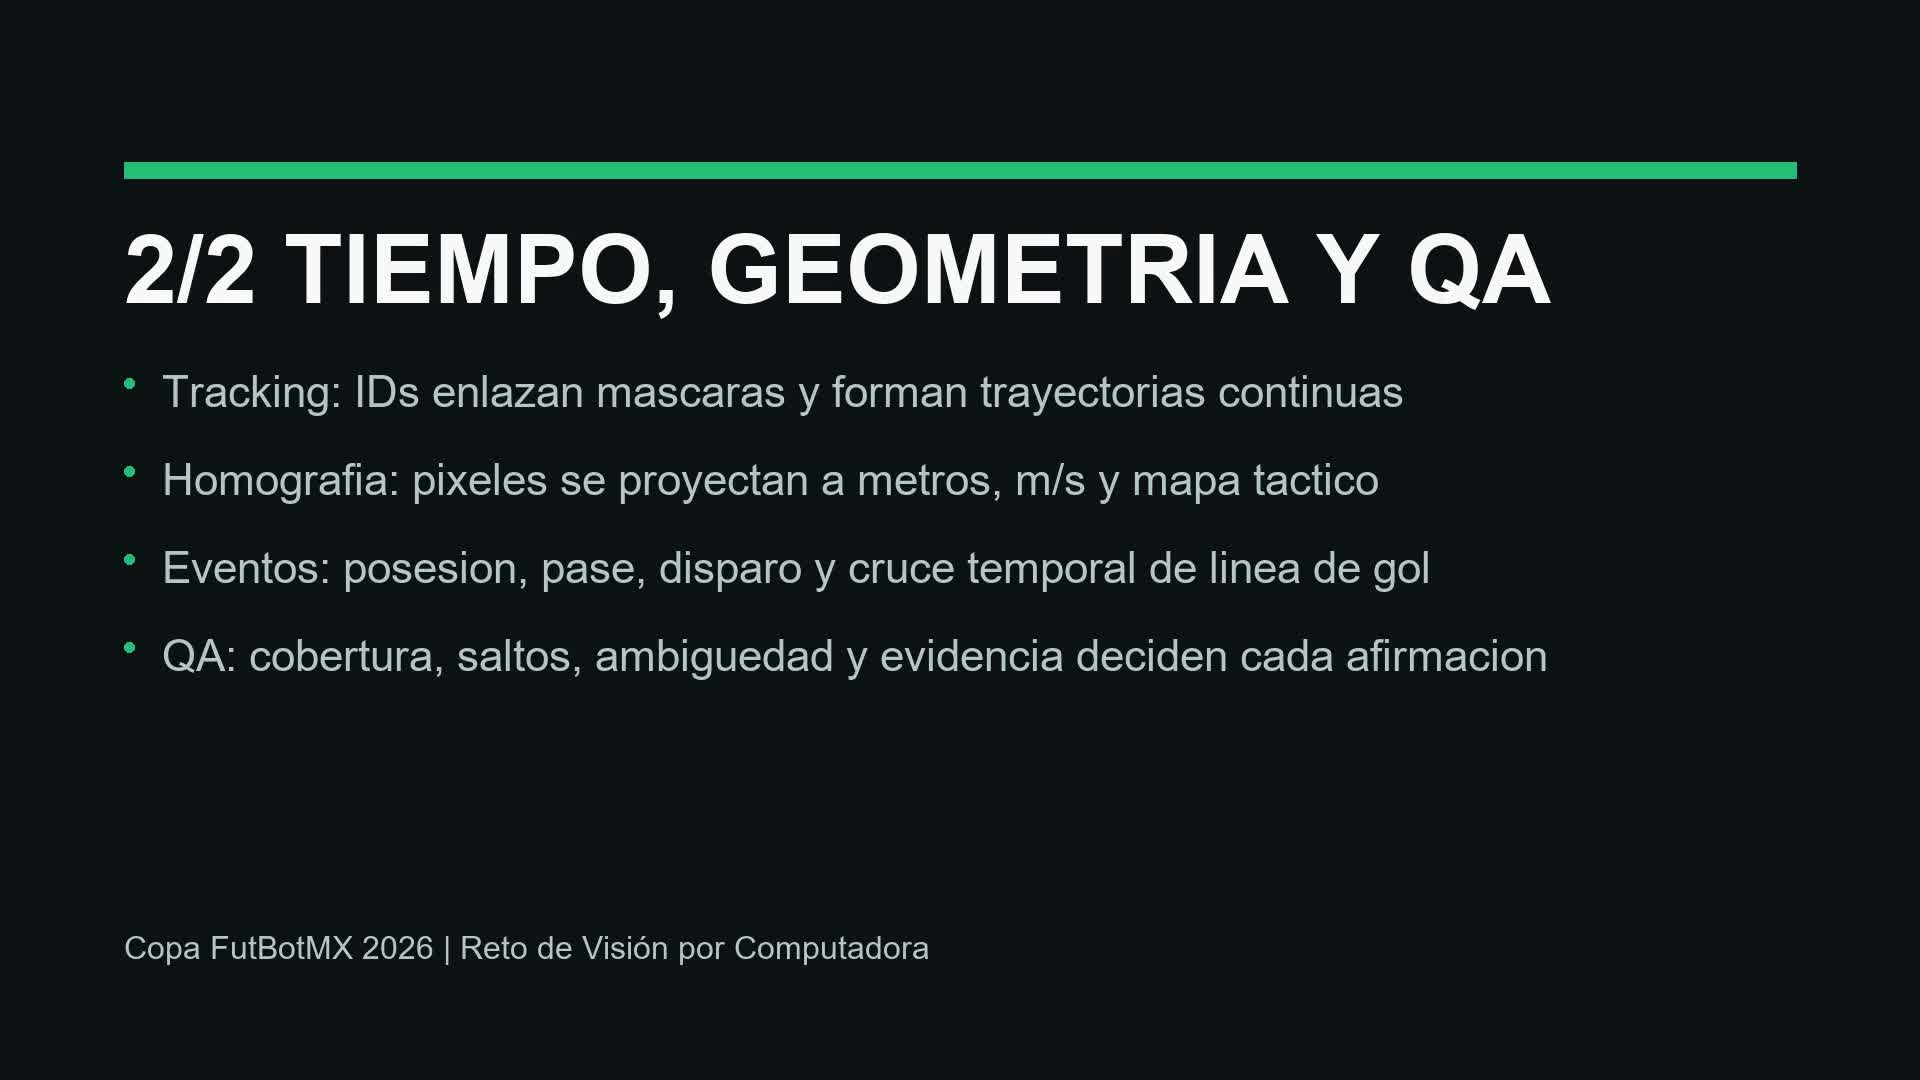
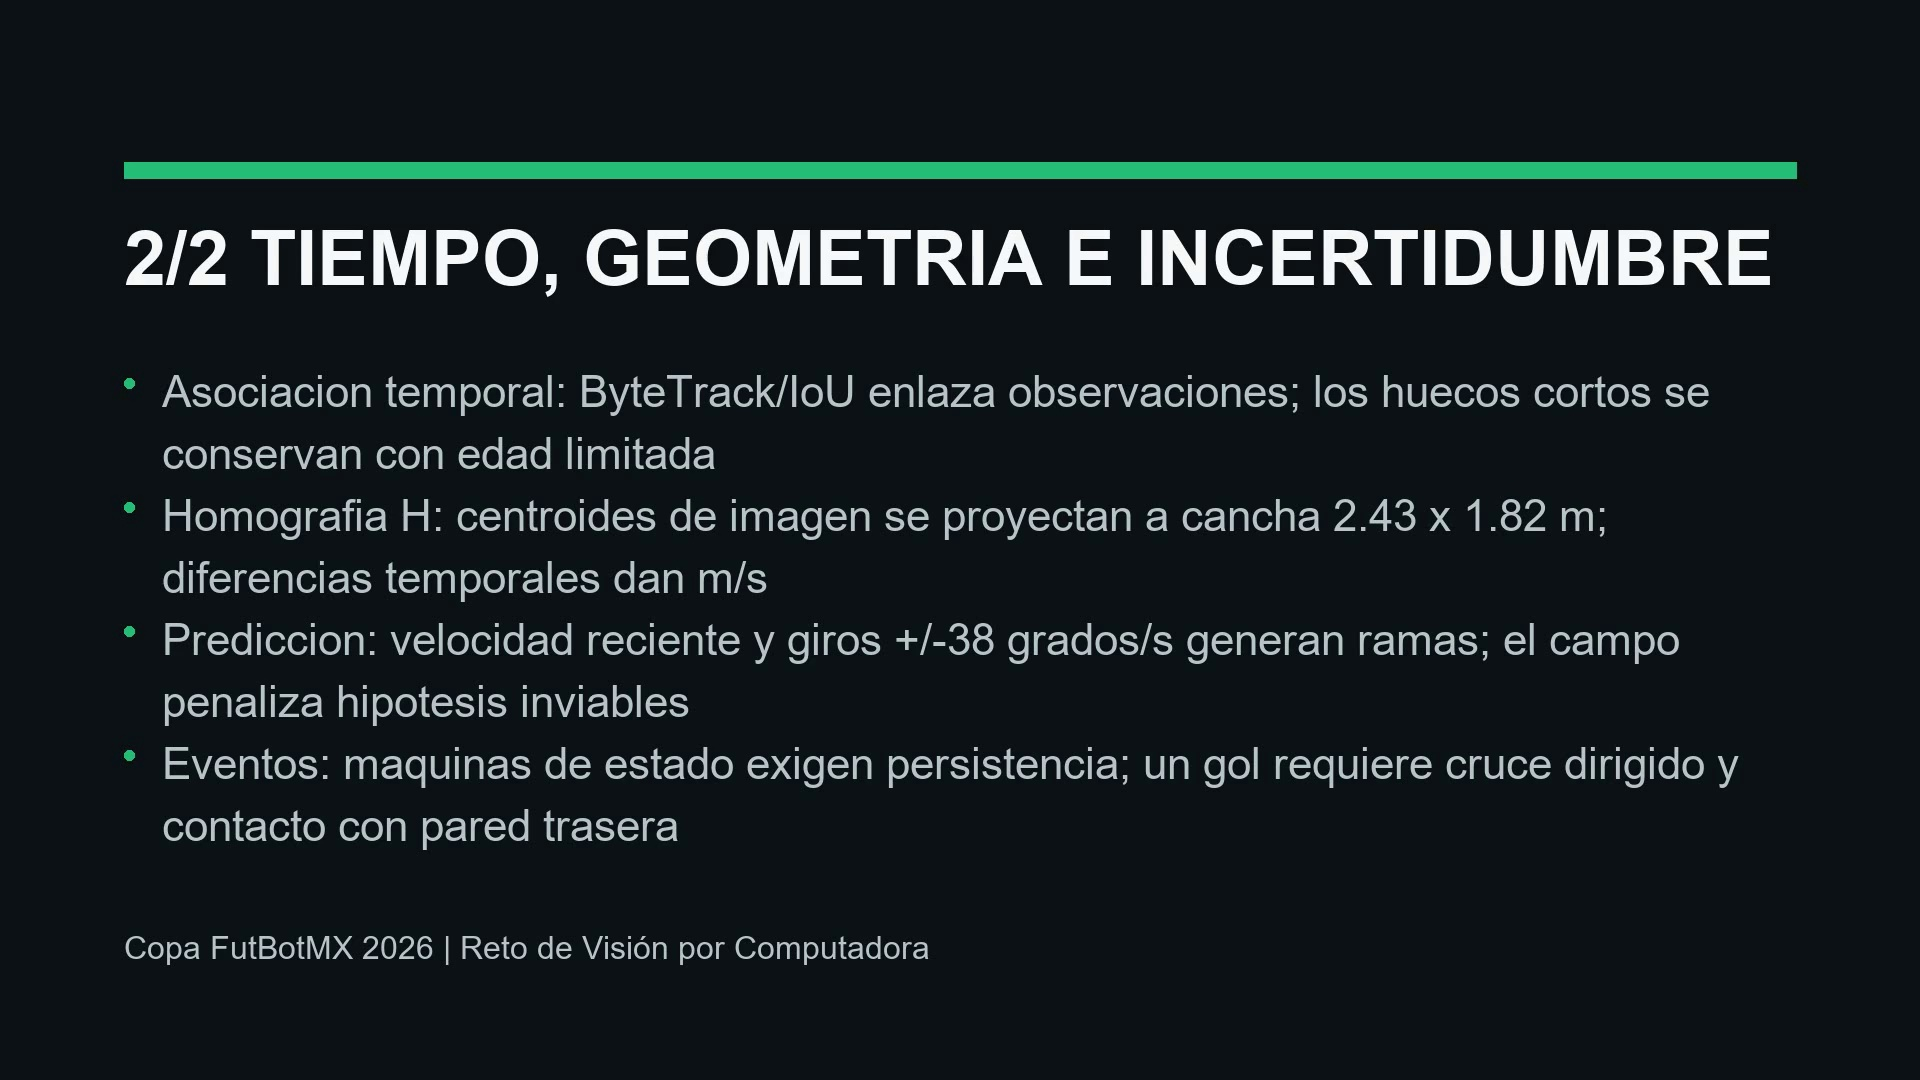
Publish v1.2.2 goal and motion evidence

diff --git a/README.md b/README.md
@@ -11,7 +11,7 @@ detecciones en metricas, eventos, mapas tacticos y videos demo.
 - **Institución:** Universidad Nacional Autónoma de México (UNAM).
 - **Integrantes:** Germán Alday Salazar, Raúl García Lemus y Darien Piña Sánchez.
 - **Demo final (116 s, 1920x1080, H.264):**
-  [GitHub Release v1.2.1](https://github.com/Dps8/SAMBA_FutBot/releases/tag/v1.2.1).
+  [GitHub Release v1.2.2](https://github.com/Dps8/SAMBA_FutBot/releases/tag/v1.2.2).
 - **Reel listo para Instagram (89 s, 1080x1920, H.264):**
   se incluye en el mismo release.
 - **Enlace publico de Instagram (provisional):**
@@ -28,11 +28,17 @@ fine-tuning.
 
 ![Enfoques de tiempo, geometria y QA](docs/assets/submission-approach.jpg)
 
+![Percepcion y fusion de evidencia](docs/assets/submission-perception-fusion.jpg)
+
 ![Original y resultado SAMBA FutBot](docs/assets/submission-analysis.jpg)
 
 ![Secuencia real de gol y cambio de marcador](docs/assets/submission-goal.jpg)
 
 ![Prediccion de movimiento y distancia metrica](docs/assets/submission-prediction.jpg)
+
+![Prediccion multimodal de robots](docs/assets/submission-robot-prediction.jpg)
+
+![Deteccion observada de ambas porterias](docs/assets/submission-goal-detection.jpg)
 
 ![Mapa de calor dinamico](docs/assets/submission-heatmap.jpg)
 
@@ -43,7 +49,7 @@ fine-tuning.
 La evidencia numerica de la corrida completa esta en
 [`full-match-IMG_9933-summary.json`](docs/evidence/full-match-IMG_9933-summary.json),
 acompanada por el reporte exacto del heatmap y las metricas operativas. El
-[`manifiesto v1.2.1`](docs/evidence/submission-video-manifest-v1.2.1.json)
+[`manifiesto v1.2.2`](docs/evidence/submission-video-manifest-v1.2.2.json)
 registra codec, resolucion, duracion, entradas y alcance de cada afirmacion.
 
 La ruta actual no depende solo de un prompt a SAM 3. Para la camara superior se
@@ -63,6 +69,42 @@ usa una estrategia hibrida:
 10. Se asignan IDs de tracking y equipo por color dominante del robot.
 11. Se calculan metricas, posesion por equipo, eventos, homografia, reportes y QA.
 
+### Criterio de fusion y trazabilidad
+
+Cada fuente propone evidencia, no una verdad aislada. SAM 3 aporta mascara,
+caja, score del modelo, prompt y cuadro de origen. El detector HSV aporta
+componentes conexos con rango cromatico, area y extension; se usa para aumentar
+recall cuando el objeto conserva un color reconocible. La fusion compara clase,
+IoU, contencion, area, cercania y pertenencia al campo. Despues aplica
+restricciones del dominio: una pelota por cuadro, una porteria por color y
+separacion espacial minima entre robots.
+
+Una semilla marcada `source: goal_geometry` no puede recalibrar el color ni
+cerrar la ventana de busqueda HSV: primero debe aparecer evidencia observada de
+SAM 3 o color. Esto evita que una estimacion geometrica incorrecta bloquee una
+porteria real. Si se habilita la inferencia de la porteria opuesta, el eje se
+elige por la relacion de aspecto del campo (`horizontal` o `vertical`) y el
+resultado conserva `evidence: geometry_only`; no se dibuja ni confirma un gol
+por si solo. Los scores de SAM 3 y de los filtros no son probabilidades
+calibradas y se reportan con su procedencia.
+
+### Prediccion de pelota y robots
+
+La prediccion opera despues de tracking y homografia. Para cada robot se ajustan
+dos rectas por minimos cuadrados sobre su historia reciente en metros,
+`x(t)=x0+vx*t` y `y(t)=y0+vy*t`. El residuo RMSE del ajuste mide consistencia
+local. Desde el estado estimado se integran tres ramas durante 1.5 s:
+velocidad constante, giro izquierdo a `+38 grados/s` y giro derecho a
+`-38 grados/s`. Las ramas que salen del rectangulo `2.43 x 1.82 m` reciben una
+penalizacion y los pesos restantes se normalizan para sumar uno.
+
+Esos porcentajes son **probabilidades heuristicas relativas**, no frecuencias
+calibradas por un clasificador entrenado. El JSON conserva historial, velocidad
+en m/s, RMSE, horizonte, puntos metricos, estado dentro/fuera del campo y nota
+de alcance. Para la presentacion se selecciona un instante observado con alto
+movimiento y se eliminan forecasts espacialmente coincidentes, de modo que dos
+IDs sobre el mismo robot no se presenten como dos agentes diferentes.
+
 ## Estado Actual
 
 - Categoria de trabajo: profesional.
@@ -71,7 +113,7 @@ usa una estrategia hibrida:
 - Campo oficial usado para homografia: `2.43 m x 1.82 m`.
 - Pelota oficial considerada: pelota naranja tipo golf, `42 mm`; el color se
   maneja como perfil configurable, no como unica fuente de deteccion.
-- Suite local: 291 pruebas y 6 subpruebas aprobadas.
+- Suite local: 297 pruebas y 6 subpruebas aprobadas.
 - Clip superior limpio: maximo dos robots y una pelota por cuadro; 205
   candidatos de pelota revisados, 203 aceptados y dos falsos puntos sobre
   robots eliminados por contexto.
@@ -89,7 +131,7 @@ usa una estrategia hibrida:
   rastreada, cruce dirigido en el cuadro 356, persistencia temporal y contacto
   con la pared trasera exigido por las reglas; la evidencia registra seis
   cuadros fuera y seis dentro.
-- Resultados finales locales: `outputs/review/2026-06-19/submission_v1_2_1`.
+- Resultados finales locales: `outputs/review/2026-06-19/submission_v1_2_2`.
 - Evidencia pequena y versionable: `docs/evidence` y `docs/assets`.
 
 ## Estructura Del Repositorio
@@ -217,7 +259,9 @@ Puntos clave:
   exacto.
 - `goal_detection.spatial_gate_from_seeds`: si hay cajas semilla de SAM3,
   limita la busqueda cromatica a regiones cercanas a esas coordenadas para
-  evitar objetos externos del mismo color.
+  evitar objetos externos del mismo color. Las semillas puramente geometricas
+  se excluyen de esta compuerta para no ocultar una porteria observada en otra
+  zona del campo.
 - `goal_detection.require_seed_for_color`: si esta activo, una clase de
   porteria necesita al menos una caja semilla de SAM3 antes de aceptar
   detecciones cromaticas de esa clase. El default actual es `false` para que la
@@ -229,7 +273,9 @@ Puntos clave:
   detecta una porteria de color, crea la porteria opuesta por simetria respecto
   al eje central del campo y la marca con `source: goal_geometry`. Esta apagado
   por defecto porque puede crear una porteria falsa junto a la porteria real si
-  la geometria de campo no esta limpia.
+  la geometria de campo no esta limpia. `goal_detection.opposite_goal_axis`
+  acepta `auto`, `horizontal` o `vertical`; `auto` usa la orientacion de la caja
+  del campo.
 - `robot_filter.enabled`: activa el filtro conservador para camara superior.
   Reduce cajas repetidas de robots usando varios criterios combinados: area
   minima, area maxima relativa al frame, IoU, contencion, distancia minima entre
@@ -624,7 +670,9 @@ Que hace internamente:
 5. Si SAM3 encontro porterias, calibra el HSV real desde esas cajas.
 6. Agrega porterias por color azul/amarillo si el fallback cromatico esta
    activo.
-7. Si solo aparece una porteria, infiere la opuesta por geometria del campo.
+7. Si se habilita explicitamente y solo aparece una porteria, propone la
+   opuesta por el eje geometrico correspondiente; queda marcada como evidencia
+   solo geometrica y no se usa como deteccion observada.
 8. Fusiona campo, robots, porterias y candidatos de pelota.
 9. Refina la pelota con `refine-ball`.
 10. Genera tracks y asigna equipo de robots por color.
@@ -663,7 +711,8 @@ Parametros utiles:
   cambios de posesion o colisiones.
 - `--render-analysis / --no-render-analysis`: genera el video tecnico con
   cajas, scores, distancia de cada robot al balon, velocidad del balon,
-  trayectoria y una probabilidad heuristica de presion de tiro hacia porteria.
+  trayectoria, probabilidad heuristica de presion de tiro y ramas metricas de
+  movimiento para pelota y robots.
 - `--analysis-freeze`: solo para el video `analysis`; congela frames relevantes
   para explicar eventos importantes como tiros, goles candidatos, pases,
   intercepciones o colisiones.

diff --git a/docs/SUBMISSION_COMPLIANCE.md b/docs/SUBMISSION_COMPLIANCE.md
@@ -17,9 +17,9 @@ fuente normativa es `Convocatoria_CopaFutBotMX-Meta-VF-20260429T020141.pdf`.
 | Regla | Estado | Evidencia |
 |---|---|---|
 | 3.5.1 Campo, aliados, rivales y pelota | Cumplido con QA | SAM 3 segmenta campo/robots/pelota; la clasificacion de equipo usa apariencia y puede quedar `unknown` si no supera confianza. Las porterias azul/amarilla tienen prompt y fallback cromatico/geometrico. |
-| 3.5.1 Trayectorias y eventos | Cumplido | Tracks persistentes, trayectoria de pelota, distancia robot-balon, pases, tiros, intercepciones, colisiones, goles y estados de juego. En `video-427`, la caja de pelota cruza la linea calibrada, persiste tres cuadros y contacta la pared trasera conforme a 4.4.5/7.4.4; entonces emite `goal_confirmed` y actualiza el marcador. |
+| 3.5.1 Trayectorias y eventos | Cumplido | Tracks persistentes, trayectoria de pelota, distancia robot-balon y prediccion multimodal de robots en metros con tres ramas y pesos heuristicos explicitos; pases, tiros, intercepciones, colisiones, goles y estados de juego. En `video-427`, la caja de pelota cruza la linea calibrada, persiste tres cuadros y contacta la pared trasera conforme a 4.4.5/7.4.4; entonces emite `goal_confirmed` y actualiza el marcador. |
 | 3.5.2 Visualizacion avanzada | Cumplido | Mapa de calor dinamico y acumulado sobre `IMG_9933.MOV` completo (12:56, 23,278 cuadros), mapa tactico, posesion candidata, flujo, narrativa y vista analitica. |
-| 3.5.3 Demo de hasta 2 min | Cumplido | `SAMBA_FutBot-demo-final.mp4`: 116 s, 1920x1080, original+resultado, narrativa, analisis, prediccion, explicacion visual del detector de gol, multivista, heatmap completo, metricas y H.264. Se publica en GitHub Release v1.2.1. |
+| 3.5.3 Demo de hasta 2 min | Cumplido | `SAMBA_FutBot-demo-final.mp4`: 116 s, 1920x1080, original+resultado, narrativa, analisis, prediccion de pelota y robots, explicacion visual del detector de gol, multivista, heatmap completo, metricas y H.264. Se publica en GitHub Release v1.2.2. |
 | 3.5.3 Reel de al menos 30 s | Archivo listo | `SAMBA_FutBot-reel-instagram.mp4`: 89 s, 1080x1920 y H.264. Falta publicar en Instagram y reemplazar el enlace provisional del README. |
 | 3.5.4 README completo | Cumplido salvo enlace externo | Arquitectura, instalacion, reproduccion, entorno, resultados, capturas, licencia y creditos estan incluidos. |
 
@@ -35,7 +35,7 @@ proyecto.
 
 | Criterio | Evidencia principal |
 |---|---|
-| Innovacion | Prompts y contexto rotativos, fusion SAM 3 + color adaptable, fine-tuning medido, ByteTrack, recuperacion geometrica, prediccion de tiro y QA por claim. |
+| Innovacion | Prompts y contexto rotativos, fusion SAM 3 + color adaptable, fine-tuning medido, ByteTrack, recuperacion geometrica auditable, prediccion multimodal de pelota/robots y QA por claim. |
 | Pipeline funcional | `process-video` y `process-top-camera` producen detecciones, tracks, estados, eventos, metricas, QA, mapas y doble video. |
 | Rendimiento | Ventanas de 120 cuadros, limite de 16 objetos, rotacion de prompts, ejecucion por lotes y post-procesamiento sin GPU. |
 | Visualizacion | Mascaras semitransparentes, cajas por objeto, confianza, IDs, distancias, trayectorias, narrativa, analisis y mapas de calor. |

diff --git a/docs/RESULTS.md b/docs/RESULTS.md
@@ -3,7 +3,7 @@
 Generated artifacts for the current SAM3 windowed pipeline are stored under
 `outputs/`.
 
-## Final submission v1.2.1 (19 June 2026)
+## Final submission v1.2.2 (19 June 2026)
 
 The final delivery integrates two H.264 formats: a 116-second horizontal demo
 and an 89-second vertical reel. Both show the narrative and analysis modules,
@@ -24,7 +24,7 @@ ball regression remains in the evidence JSON so the presentation does not hide
 the known limitation.
 
 Final local artifacts are under
-`outputs/review/2026-06-19/submission_v1_2_1/`. Small versioned evidence is under
+`outputs/review/2026-06-19/submission_v1_2_2/`. Small versioned evidence is under
 `docs/evidence/`, with verified stills under `docs/assets/`.
 
 The goal sequence in `video-427` is machine-verifiable rather than only a
@@ -35,6 +35,26 @@ implements rules 4.4.5 and 7.4.4. The emitted `goal_confirmed` event has
 confidence 0.92 and updates the confirmed yellow scoreboard to 1-0. The demo
 overlays the ball box, track, trajectory, goal region, goal line, back wall and
 temporal persistence counter.
+
+## Goal recovery and robot forecasts (18 June 2026)
+
+The `IMG_9938` audit exposed a portrait-camera geometry error: the missing blue
+goal had been mirrored horizontally beside the yellow goal. The corrected
+constraint selects the symmetry axis from the detected field orientation and
+does not let `geometry_only` seeds restrict color search. Broad blue HSV plus
+field membership observes the physical blue goal in all 300 frames of the
+reviewed clip; the yellow goal remains the higher-confidence SAM 3 result. The
+new tracks contain zero geometry-only goals, one goal per color per frame and
+render no goal trails.
+
+Robot forecasting now uses metric robot paths instead of reusing only the ball
+trajectory. A least-squares velocity estimate over recent observations creates
+constant-heading, left-turn and right-turn branches over a 1.5-second horizon.
+Branch weights combine fit consistency with the fraction of the path that
+stays on the 2.43 x 1.82 m field and are normalized to one. They are explicitly
+labeled heuristic and uncalibrated. The presentation snapshot suppresses
+spatially coincident track hypotheses and displays at most two distinct robots,
+including speed, branch weights and fit RMSE.
 
 ## Full-match top-camera evidence (18 June 2026)
 

diff --git a/docs/README.md b/docs/README.md
@@ -19,9 +19,10 @@ mantienen en el `README.md` principal para evitar dos manuales divergentes.
 
 ## Evidencia Final
 
-- `submission-video-manifest-v1.2.1.json`: entradas, codec, resolucion,
+- `submission-video-manifest-v1.2.2.json`: entradas, codec, resolucion,
   duracion y alcance de afirmaciones del demo y reel.
-- `submission-video-qa-v1.2.1.json`: hashes, decodificacion y cuadros revisados.
+- `submission-video-qa-v1.2.2.json`: hashes, decodificacion completa, porterias
+  observadas y predicciones de robots revisadas.
 - `video-427-calibrated-goal-events.json`: disparo y gol confirmado mediante
   pelota rastreada, cruce dirigido, persistencia y contacto con pared trasera.
 - `video-427-calibrated-goal-summary.json`: marcador confirmado y resumen de
@@ -41,9 +42,10 @@ Release o se generan bajo `outputs/`; no se duplican dentro de `docs/`.
 ## Capturas
 
 `assets/` contiene un conjunto pequeno de cuadros finales enlazados desde el
-README: enfoques, analisis, gol, prediccion, heatmap, mapa tactico y validacion
-cuantitativa. Las capturas antiguas o no referenciadas se excluyen para evitar
-confundir resultados preliminares con la entrega vigente.
+README: enfoques, analisis, ambas porterias, prediccion de pelota/robots,
+heatmap, mapa tactico y validacion cuantitativa. Las capturas antiguas o no
+referenciadas se excluyen para evitar confundir resultados preliminares con la
+entrega vigente.
 
 ## Criterio De Publicacion
 
